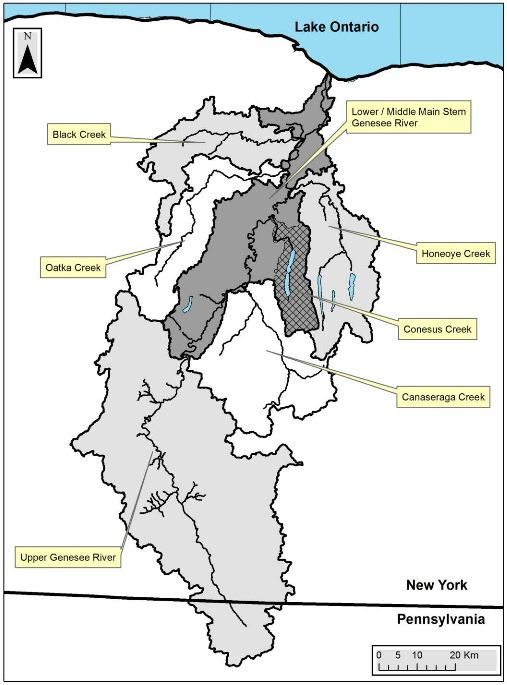
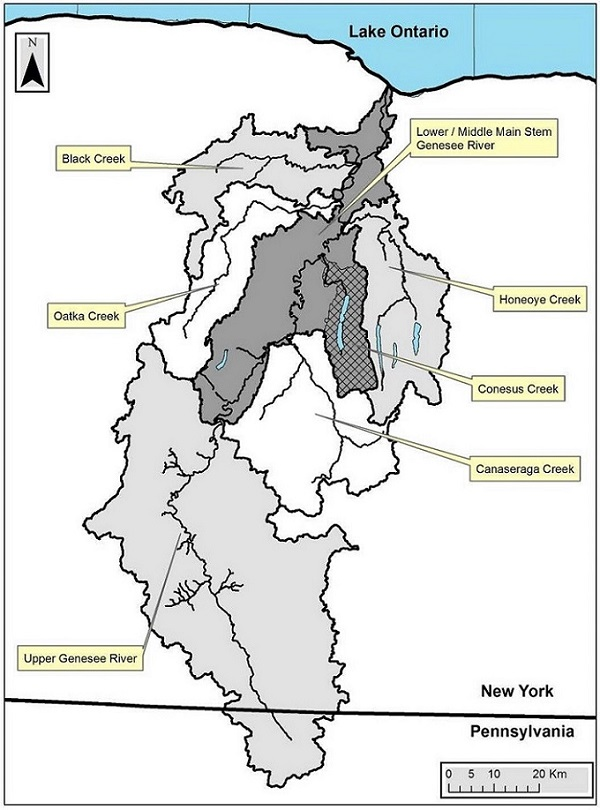
map mak

diff --git a/grw_plan/grwp_maps.html b/grw_plan/grwp_maps.html
@@ -70,6 +70,15 @@
               </p>
               <br>
 
+
+              <h4>Genesee River Watershed with Sub-Basins</h4>
+
+              <p>
+                <img src="images/makarewicz_map_fig1_vol2_p63.jpg" alt="Genesee River Watershed with Sub-Basins">
+                <br>Genesee River Watershed with Sub-basins, including Upper Genesee River (from sources in PA downstream to Portageville, NY).  Map from <a href=http://digitalcommons.brockport.edu/tech_rep/125/> Joseph C. Makarewicz, Theodore W. Lewis, Blake Snyder, and William B. Smith, <cite>Genesee River Watershed Project. Volume 2. Water Quality Analysis of the Upper Genesee River Watershed: Nutrient Concentration and Loading, Identification of Point and Nonpoint Sources of Pollution, Total Maximum Daily Load, and an Assessment of Management Practices using the Soil Water Assessment Tool (SWAT) Model. A report to the USDA.</cite>  SUNY Brockport Digital Commons, Technical Reports, Paper 125.  Brockport, NY: SUNY Brockport, 2013</a>, Fig. 1, p. 63.  Courtesy SUNY Brockport Digital Commons.
+              </p>
+              <br>
+
               <h4>Source of Genesee River at Triple Continental Divide in PA</h4>
               <p>
                 <img src="images/triple_divide_820.jpg" alt="Triple Continental Divide">
